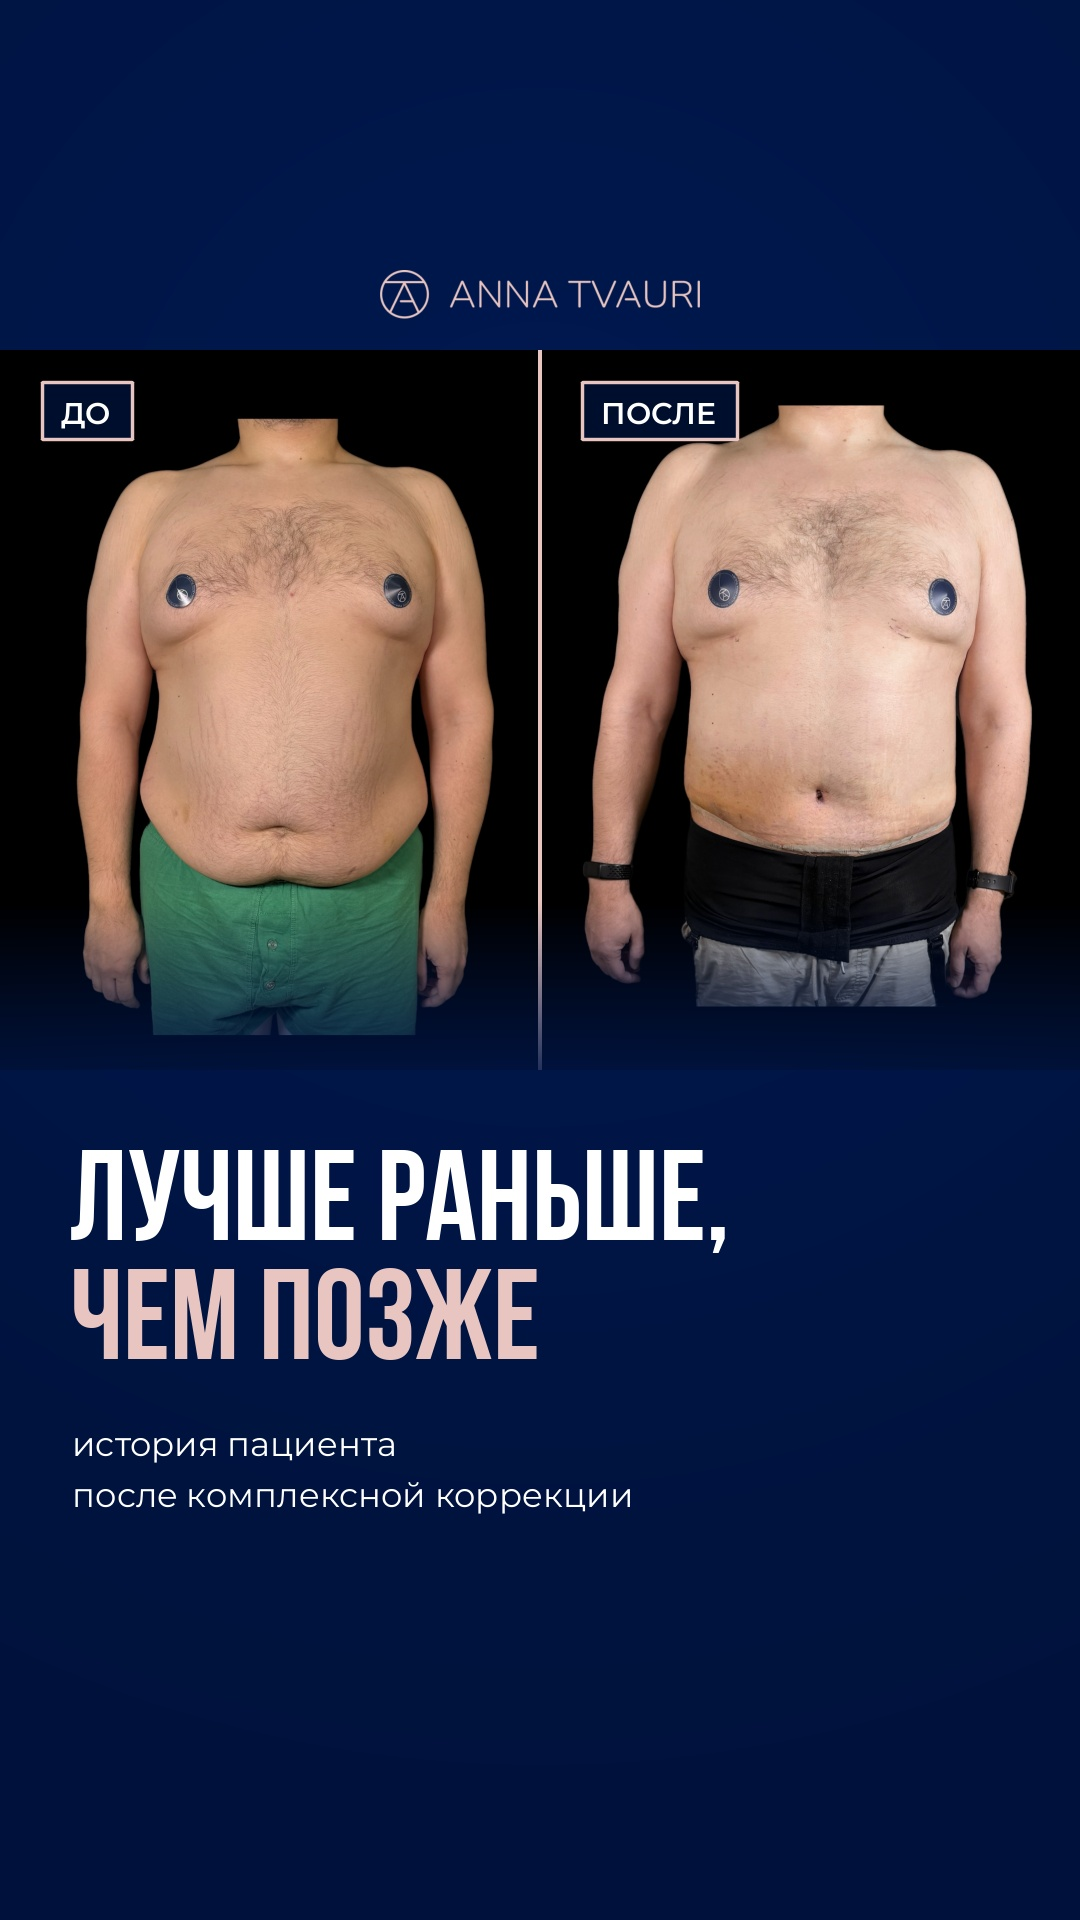
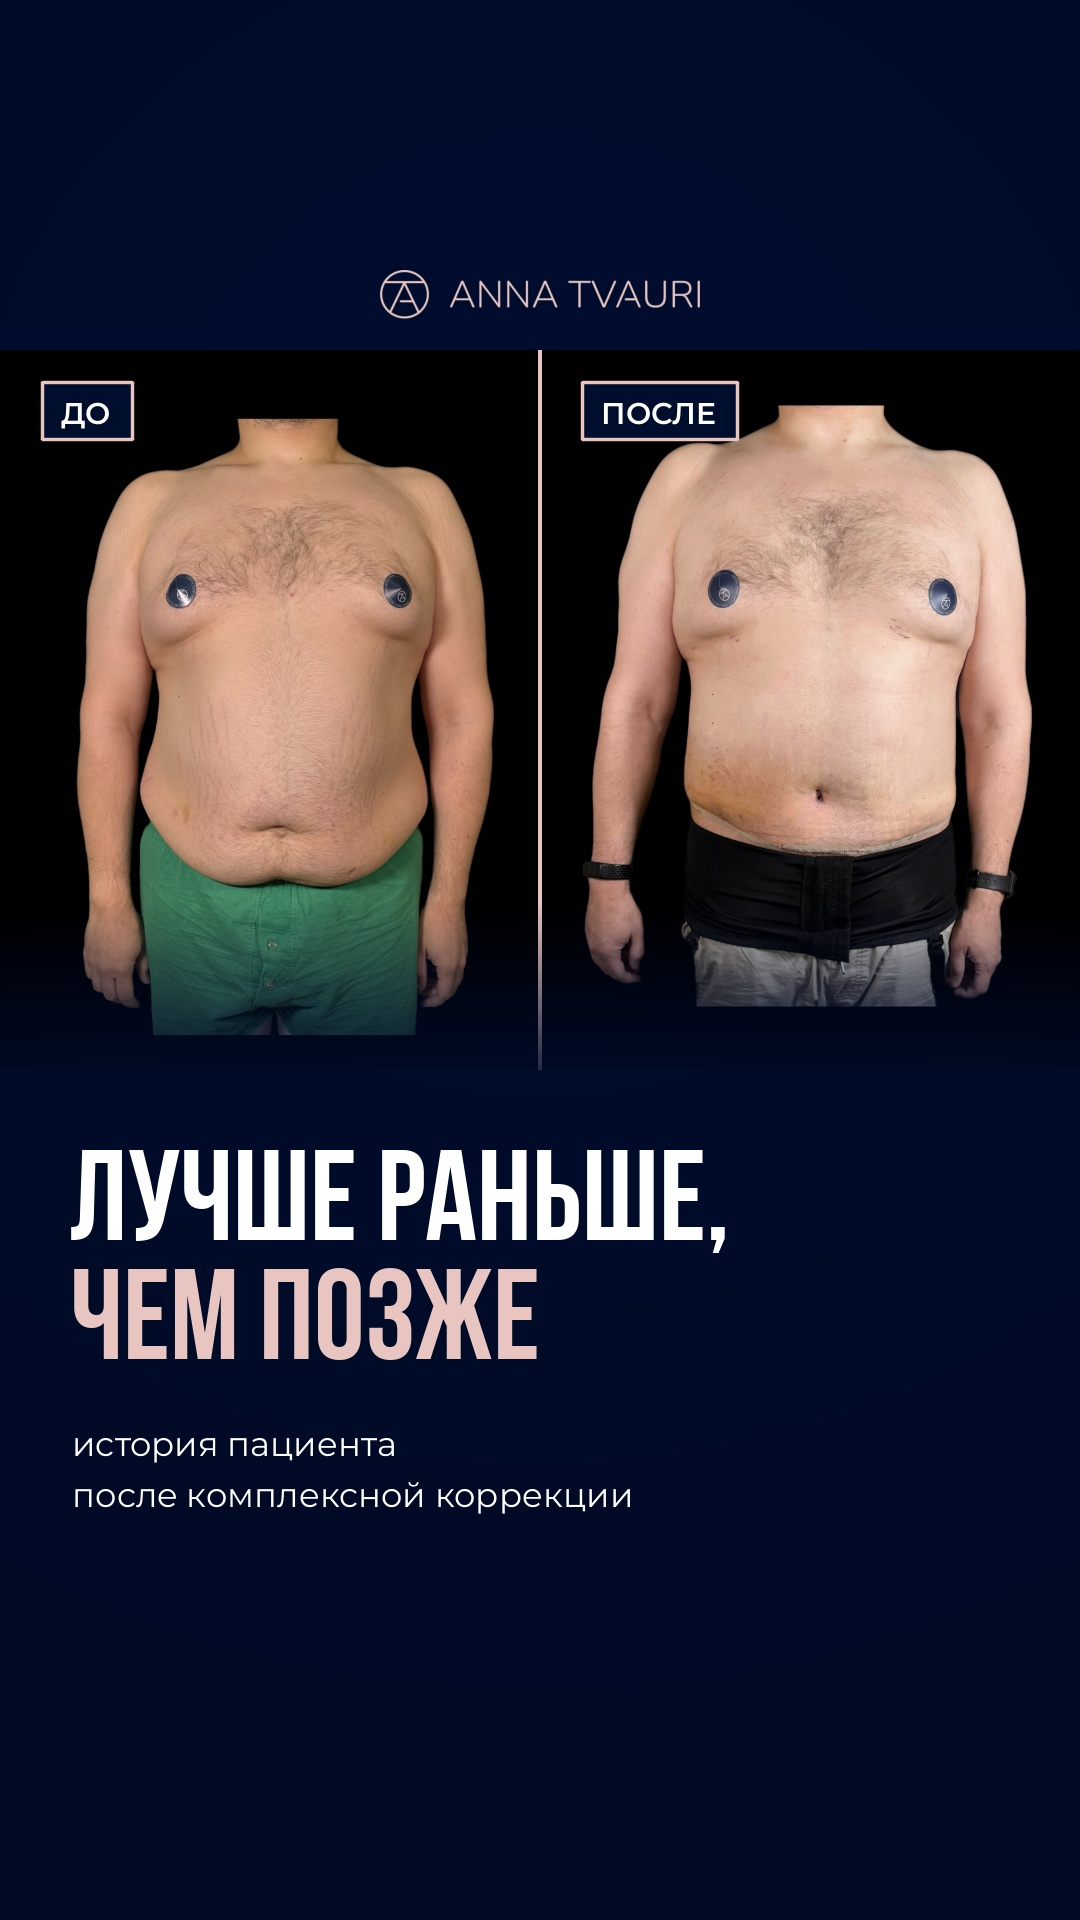
Male reel cover: deeper navy (#000A24)
Claude-Session: https://claude.ai/code/session_01PotVFxhwJhJxfUVgu7Et5P

diff --git a/tools/reel_male_lipo.py b/tools/reel_male_lipo.py
@@ -598,13 +598,14 @@ def build_audio(path):
         w.setnchannels(2); w.setsampwidth(2); w.setframerate(SR); w.writeframes((mix * 32767).astype(np.int16).tobytes())
 
 def make_cover(path):
-    """everything inside the centre 3:4 (y 240-1680) that the profile grid shows"""
-    fr = BG.copy()
+    """everything inside the centre 3:4 (y 240-1680) that the profile grid shows; a deeper navy than the video"""
+    CBG = np.clip(np.float32([0, 10, 36]) / 255 * (1 + 0.3 * np.exp(-(((xx - 540) / 900) ** 2 + ((yy - 520) / 900) ** 2)))[..., None], 0, 1).astype(np.float32)
+    fr = CBG.copy()
     for k, img in enumerate([BEF, AFT]):
         im = cv2.resize(img[200:1640], None, fx=0.5, fy=0.5, interpolation=cv2.INTER_AREA).astype(np.float32) / 255
         x0 = k * 540; fr[350:350 + im.shape[0], x0:x0 + 540] = im[:, :540]
     fr[350:1070, 538:542] = PINK; chip(fr, "ДО", 40, 380); chip(fr, "ПОСЛЕ", 580, 380)
-    m = np.clip((yy[:, :1] - 900) / 200, 0, 1)[..., None]; fr = fr * (1 - m) + BG * m
+    m = np.clip((yy[:, :1] - 900) / 200, 0, 1)[..., None]; fr = fr * (1 - m) + CBG * m
     lg = logo_alpha(320); blend(fr, lg, 540 - 160, 270, PINK)
     hd = Drop(["ЛУЧШЕ РАНЬШЕ,", "*ЧЕМ ПОЗЖЕ*"], 128, 70, 1150, maxw=840); hd.draw(fr, 99, 0)
     ty = Track(["история пациента", "после комплексной коррекции"], 34, 72, 0, 400); ty.y = 1150 + hd.h + 60 + ty.top; ty.draw(fr, 99, 0)
